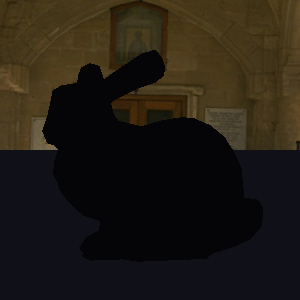
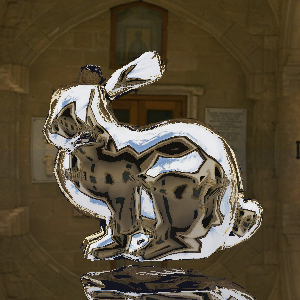
debug

diff --git a/src/Renderer.cpp b/src/Renderer.cpp
@@ -72,26 +72,11 @@ Vector3f Renderer::traceRay(const Ray &r,
     int bounces,
     Hit &h) const
 {
-    printf("bounces = %d\n", bounces);
     if (_scene.getGroup()->intersect(r, tmin, h)) {//有交点
-        printf("intersected\n");
         Vector3f I,p;
         p = r.pointAtParameter(h.getT());
-        printf("point at parameter\n");
-        
-        auto tmp1 = _scene.getAmbientLight();
-        printf("pos1\n");
-        auto mtr_ptr = h.getMaterial();
-        if (mtr_ptr == nullptr) {
-            printf("material is null\n");
-        }
-        auto tmp2 = h.getMaterial()->getDiffuseColor();
-        printf("pos2\n");
-        I = tmp1 + tmp2;
         I= _scene.getAmbientLight() * h.getMaterial()->getDiffuseColor();
-        printf("check bounces\n");
         if(bounces>0){
-            printf("in bounces\n");
             Vector3f N = h.getNormal().normalized();//平面法向量
             Vector3f temp_ray = r.getDirection().normalized();//反射前的光线
             Vector3f newR = (temp_ray + 2 * Vector3f::dot(N,-temp_ray) * N).normalized();//反射后的光线
@@ -101,7 +86,6 @@ Vector3f Renderer::traceRay(const Ray &r,
             Vector3f indirect = traceRay(newRay, 0.0001, bounces - 1, new_h);
             // 递归调用traceRay函数，计算间接光照
             I += h.getMaterial()->getSpecularColor() * indirect;
-            printf("out bounces\n");
         }
         return I;
     }

diff --git a/src/Object3D.cpp b/src/Object3D.cpp
@@ -71,11 +71,6 @@ bool Group::intersect(const Ray &r, float tmin, Hit &h) const
     for (Object3D* o : m_members) {
         if (o->intersect(r, tmin, h)) {
             hit = true;
-            if(h.getMaterial() == nullptr) {
-                printf("?????\n");
-                std::cout << o->getType() << std::endl;
-                printf("?????\n");
-            }
         }
     }
     return hit;
